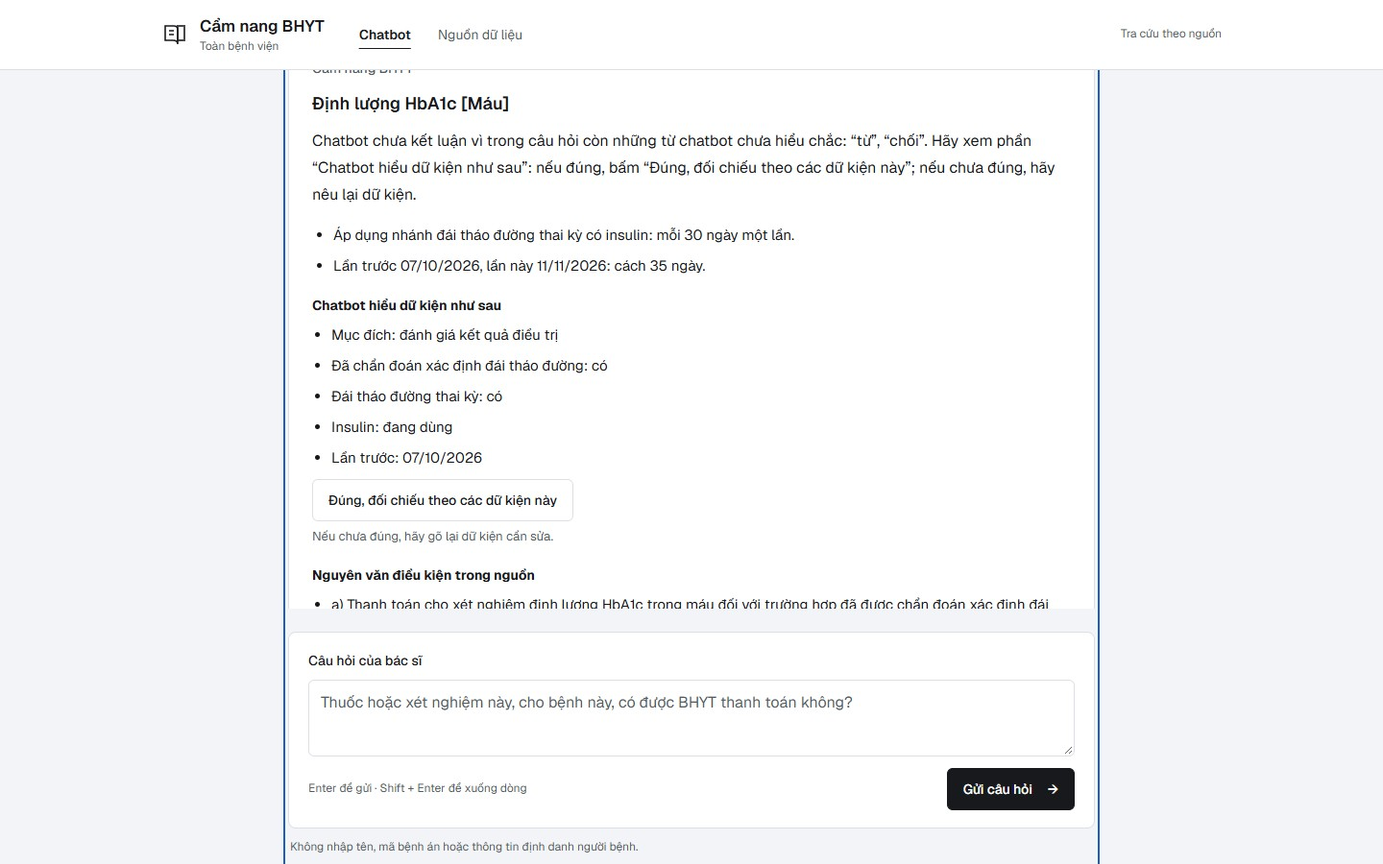
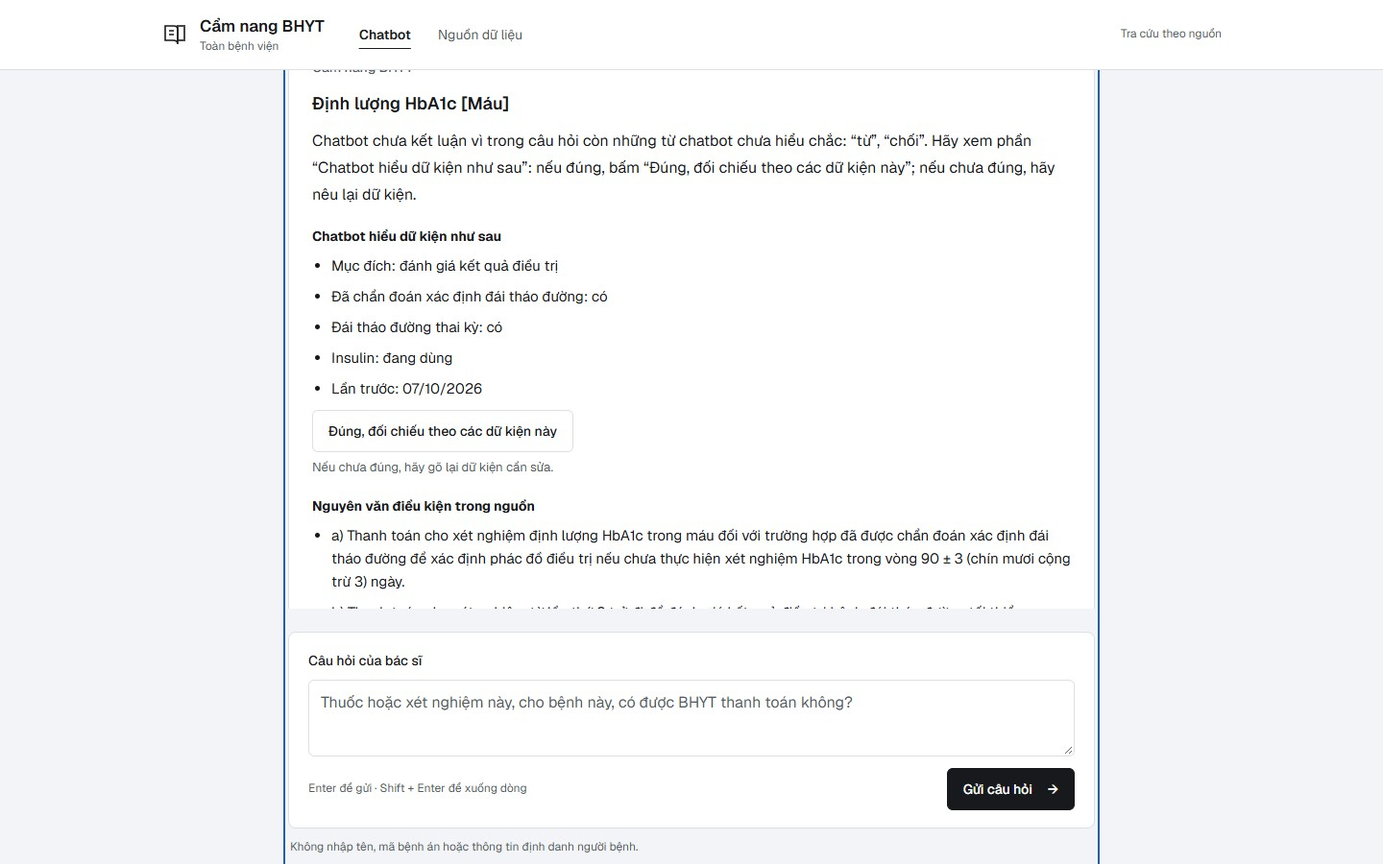
Sửa lỗi giữ dữ kiện ca cũ và bỏ qua bước xác nhận xét nghiệm

Changed region(s): [[0.2188, 0.2489, 0.7812, 0.7156]]

diff --git a/lab_lookup.py b/lab_lookup.py
@@ -79,6 +79,8 @@ def governed(clause, start, end, fillers, hedge=HEDGE, stoppable=False):
     m = re.search(hedge, ' '.join(before))
     if m:
         return 'unknown', m.group(0)
+    if stoppable and re.match(r'(?:\w+ ){0,3}(?:nam truoc|nam ngoai|thang truoc|tuan truoc|truoc day|truoc kia|luc truoc|hoi truoc|dot truoc|thai ky truoc|lan mang thai truoc|truoc khi|truoc do)\b', ' '.join(after)):
+        return 'unknown', 'past'                              # "dùng insulin trong năm trước": then, not now
     if re.fullmatch(r'(?:(?:thi|la|hay) )*(?:khong|chua)(?: (?:a|nhi|vay|nua))?', ' '.join(after)):
         return 'unknown', 'question'                          # "… dùng insulin không?"
     neg = [i for i, w in enumerate(before) if w in NEGATORS]
@@ -115,26 +117,44 @@ def verdict(found):
 # other word ("từ chối", "mẹ", "hủy", "hội chẩn" …) means the reading is shown and confirmed
 # first. Kept with diacritics, so that "hội" (hội chẩn) is not "hỏi".
 ACCOUNTED = set("""
-xét nghiệm xn định lượng dịch vụ chỉ định làm lại muốn tôi cần cho bệnh nhân bn người trường hợp ca này hôm nay ngày mai hiện tại đang đã được có không
-bhyt bảo hiểm y tế quỹ thanh toán chi trả điều kiện gì thế nào là thì và với để nhằm trong của ở lúc khi sau trước lần kia đó ạ nhé xin hỏi bác sĩ cả hai đều
-thuốc mới vừa rồi nữa thêm hay hoặc về việc một các những bị mắc nên cũng vậy sao còn nếu vì do mà nhưng chứ loại
+xét nghiệm xn định lượng dịch vụ chỉ định làm lại muốn tôi cần cho bệnh nhân bn người trường hợp ca này hiện tại đang đã được có không
+bhyt bảo hiểm y tế quỹ thanh toán chi trả điều kiện gì thế nào là thì và với để nhằm trong của ở ạ nhé xin hỏi bác sĩ cả hai đều
+thuốc mới vừa rồi nữa thêm về việc một các những bị mắc nên cũng vậy sao còn vì do mà nhưng chứ loại đến tới
 đái tháo đường đtđ tiểu thai kỳ insulin dùng sử dụng tiêm trị bằng theo dõi đánh giá kết quả đáp ứng hiệu kiểm soát huyết xác chọn lập chỉnh thay đổi phác đồ
-tầm sàng lọc chẩn đoán ban đầu đột biến gen gene tìm phát hiện tiên từng thực đo chưa chẳng ko ngừng ngưng dừng hết thôi bỏ trừ phải rõ biết chắc nhớ dự kiến
+tầm sàng lọc chẩn đoán ban đầu đột biến gen gene tìm phát hiện thực đo chưa chẳng ko ngừng ngưng dừng hết thôi bỏ trừ phải rõ biết chắc nhớ dự kiến
 thể sẽ sắp cân nhắc lẽ chờ thấy ghi đây nghi ngờ nguy cơ tiền mục đích type typ tuýp týp tuyp giai đoạn tái tiến triển
 ung thư phổi tế bào nhỏ nsclc sclc utp vú dạ dày đại trực tràng tuyến giáp cổ tử cung vòm mũi họng thanh quản hạ khoang miệng xoang mặt âm hộ dương vật da
-cách tuần tháng năm khoảng gần nhất cũ
 """.split())
 ACCOUNTED_PLAIN = {norm(w) for w in ACCOUNTED}
+# Time words are accounted for only as part of one of these expressions ("lần trước cách 35
+# ngày", "hôm nay", "ngày 01/08/2026"). Left on their own they qualify a fact — "dùng insulin
+# trong năm trước" — and the reading must be confirmed. "hoặc", "hay", "nếu", "khi", "sau",
+# "trước" are never accounted for: they make a statement conditional or a choice.
+TIME_EXPRESSIONS = re.compile(
+    r'\blan truoc(?: (?:lam|thuc hien|xet nghiem|do|la|vao|luc))*(?: ngay)?(?= zzdate| cach|$)|\blan (?:truoc|nay)\b|\blan dau(?: tien)?\b|\blan thu (?:\d+|hai|ba|tu)\b'
+    r'|\b(?:lan )?gan nhat\b|\bhom nay\b|\bngay mai\b|\bhien nay\b|\bnay\b|\b(?:ngay )?zzdate\b|\btruoc (?:day|kia)\b|\bchua tung\b|\blan nao\b'
+    r'|\b(?:cach(?: day)? )?(?:(?:khoang|gan|hon|chua den|chua toi|khong qua|it nhat|toi da|duoi|tren) )?\d+ (?:ngay|tuan|thang)(?: truoc| roi)?\b')
 
 
 def unread_words(message, aliases=()):
     """Words of the question that nothing in this module accounts for, as typed."""
     text = unicodedata.normalize('NFC', str(message).lower())
-    text = re.sub(r'\d{1,4}[/.-]\d{1,2}[/.-]\d{1,4}', ' ', text)
+    text = re.sub(r'\d{1,4}[/.-]\d{1,2}[/.-]\d{1,4}', ' zzdate ', text)
+    tokens = re.findall(r'[^\W_]+', text)
+    plain, starts, at = [], [], 0
+    for w in tokens:
+        n = norm(w) or w
+        starts.append(at); plain.append(n); at += len(n) + 1
+    joined = ' '.join(plain)
+    used = [False] * len(tokens)
+    for m in TIME_EXPRESSIONS.finditer(joined):
+        for i, a in enumerate(starts):
+            if m.start() <= a < m.end():
+                used[i] = True
     known = {w for a in aliases for w in a.split()}
     out = []
-    for w in re.findall(r'[^\W_]+', text):
-        if w.isdigit() or len(w) == 1 or re.fullmatch(r'[ivx]+', w) or norm(w) in known:
+    for w, n, consumed in zip(tokens, plain, used):
+        if consumed or w.isdigit() or len(w) == 1 or re.fullmatch(r'[ivx]+', w) or n in known or w == 'zzdate':
             continue
         if w in ACCOUNTED or (w.isascii() and w in ACCOUNTED_PLAIN):
             continue
@@ -142,6 +162,7 @@ def unread_words(message, aliases=()):
     return list(dict.fromkeys(out))
 
 
+NEW_CASE = r'\b(?:(?:benh nhan|nguoi benh|bn|ca|truong hop|nguoi) (?:khac|thu (?:hai|ba|tu|\d+)|tiep theo|ke tiep)|(?:ca|truong hop) moi|mot (?:benh nhan|ca|truong hop|nguoi) (?:khac|moi))\b'
 CONFIRM_WORDS = r'^(?:dung|dung roi|dung vay|xac nhan|chinh xac|ok|dong y)\b'
 
 F_USE = {'den', 'toi', 'co', 'con', 'can', 'phai', 'duoc', 'chi', 'dinh', 'dung', 'su', 'tiem', 'dieu', 'tri', 'bang', 'voi', 'thuoc', 'them', 'nua', 'tung', 'dang'}
@@ -386,7 +407,7 @@ class LabLookup:
         day = lambda iso: '/'.join(reversed(iso.split('-')))
         out = []
         if row.get('rule') == 'hba1c':
-            out.append('Mục đích: ' + {'regimen': 'xác định phác đồ điều trị', 'monitoring': 'đánh giá kết quả điều trị', 'screening': 'sàng lọc/chẩn đoán ban đầu'}.get(f.get('purpose'), 'chưa nêu'))
+            out.append('Mục đích: ' + {'regimen': 'xác định phác đồ điều trị', 'monitoring': 'đánh giá kết quả điều trị', 'screening': 'sàng lọc/chẩn đoán ban đầu', 'ambiguous': 'chưa rõ (câu hỏi nêu hơn một mục đích)'}.get(f.get('purpose'), 'chưa nêu'))
             out.append('Đã chẩn đoán xác định đái tháo đường: ' + {True: 'có', False: 'chưa'}.get(f.get('diabetes'), 'chưa nêu'))
             if 'gestational' in f:
                 out.append('Đái tháo đường thai kỳ: ' + {True: 'có', False: 'không'}.get(f['gestational'], 'chưa rõ'))
@@ -440,6 +461,7 @@ class LabLookup:
             row = self.services[sid]
             prev = state.get('lab', {}) if single else {}
             confirmed = bool(route.get('confirmed'))
+            self._same_case = False
             if confirmed:      # the user confirmed the reading shown last turn: nothing is read again
                 facts, case, errors = dict(prev.get('facts', {})), bool(prev.get('case')), []
             else:
@@ -450,17 +472,26 @@ class LabLookup:
             a = self.evaluate(sid, facts, case, errors, today)
             if row.get('rule') and facts:
                 a['reading'] = self.reading(row, facts)
-            if a['status'] in ('source_conditions_match', 'source_condition_not_met') and row.get('rule'):
-                # A conclusion straight from free text only when every word was accounted for and
-                # nothing voices doubt. Otherwise the reading is shown and confirmed with one click.
-                unread = [] if confirmed else unread_words(message, [alias for alias, i, _ in self.alias_index if i == sid])
-                doubt = None if confirmed else re.search(DOUBT, ' ; '.join(clause_list(message)))
-                if unread or doubt:
-                    why = ('còn những từ chatbot chưa hiểu chắc: ' + ', '.join('“' + w + '”' for w in unread[:8])) if unread else 'có phần chưa chắc chắn (“' + doubt.group(0).replace('loaitru', 'loại trừ') + '”)'
-                    a = {**a, 'status': 'needs_confirmation', 'pending': 'confirm', 'highlight': [], 'unread': unread,
+            # Words the chatbot could not account for, and voiced doubt, stay with the case over
+            # the following turns: a later "lần trước cách 35 ngày" cannot slip past them. Only
+            # an explicit confirmation of the reading clears them.
+            unread, doubt = [], None
+            if row.get('rule') and not confirmed:
+                carried = prev if self._same_case else {}
+                unread = list(dict.fromkeys(list(carried.get('unread', [])) + unread_words(message, [norm(x) for x in row.get('aliases', []) + [row['name']]])))
+                found = re.search(DOUBT, ' ; '.join(clause_list(message)))
+                doubt = found.group(0).replace('loaitru', 'loại trừ') if found else carried.get('doubt')
+            if unread or doubt:
+                why = ('còn những từ chatbot chưa hiểu chắc: ' + ', '.join('“' + w + '”' for w in unread[:8])) if unread else 'có phần chưa chắc chắn (“' + doubt + '”)'
+                # Nothing that reads like a conclusion is shown while the reading is unconfirmed.
+                a = {**a, 'reasons': [], 'highlight': []}
+                if a['status'] in ('source_conditions_match', 'source_condition_not_met'):
+                    a = {**a, 'status': 'needs_confirmation', 'pending': 'confirm', 'unread': unread,
                          'conclusion': 'Chatbot chưa kết luận vì trong câu hỏi ' + why + '. Hãy xem phần “Chatbot hiểu dữ kiện như sau”: nếu đúng, bấm “Đúng, đối chiếu theo các dữ kiện này”; nếu chưa đúng, hãy nêu lại dữ kiện.'}
-                elif confirmed:
-                    a = {**a, 'conclusion': 'Theo các dữ kiện bạn vừa xác nhận: ' + a['conclusion'][0].lower() + a['conclusion'][1:]}
+                else:
+                    a = {**a, 'unread': unread, 'unconfirmed_note': 'Trong câu hỏi ' + why + '. Chatbot sẽ chờ bạn xác nhận cách hiểu dữ kiện trước khi kết luận.'}
+            elif confirmed and a['status'] in ('source_conditions_match', 'source_condition_not_met'):
+                a = {**a, 'conclusion': 'Theo các dữ kiện bạn vừa xác nhận: ' + a['conclusion'][0].lower() + a['conclusion'][1:]}
             notes = []
             if sid in route.get('loose', []) and row.get('name_note'):
                 notes.append(row['name_note'])
@@ -468,6 +499,8 @@ class LabLookup:
                 notes.append('Nguyên văn dòng này được chép từ ảnh trang của bản hợp nhất 17/VBHN-BYT (bản scan, Đỗ Quốc An đọc), chưa được thẩm định; hãy đối chiếu ảnh trang trước khi dùng.')
             if row.get('source_note'):
                 notes.append(row['source_note'])
+            if a.get('unconfirmed_note'):
+                notes.insert(0, a.pop('unconfirmed_note'))
             base['lab_results'].append({'id': sid, 'name': row['name'], **a, 'conditions': row['conditions'],
                                         'rate': row.get('rate') or [], 'rate_mode': row.get('rate_mode'), 'notes': notes,
                                         'transcription': row.get('transcription', 'text_layer'), 'automatic': bool(row.get('rule')),
@@ -475,7 +508,8 @@ class LabLookup:
                                         'scope': 'Đối chiếu điều kiện riêng của dịch vụ theo nguồn; chưa xác nhận mức hưởng cá nhân, giá hay phạm vi hợp đồng của bệnh viện.'})
             base['citations'].append(self.citation(row))
             if single:
-                base['state'] = {'lab': {'id': sid, 'facts': facts, 'case': case, 'pending': a.get('pending'), 'date': today.isoformat()}}
+                base['state'] = {'lab': {'id': sid, 'facts': facts, 'case': case, 'pending': a.get('pending'), 'date': today.isoformat(),
+                                         'unread': unread, 'doubt': doubt}}
         statuses = [r['status'] for r in base['lab_results']]
         base['status'] = 'needs_info' if 'needs_info' in statuses or 'needs_confirmation' in statuses else 'answered'
         base['answer'] = '\n\n'.join(r['name'] + ': ' + r['conclusion'] for r in base['lab_results'])
@@ -515,7 +549,8 @@ class LabLookup:
         row = self.services[sid]
         named = any(sid == i for i in self.match_services(q, True)[0])
         continuation = not named or has(q, r'^(?:con|vay|neu|the|lan truoc|lan nay)\b')
-        same = prev.get('id') == sid and continuation and not has(q, r'\b(?:ca moi|truong hop khac|benh nhan khac)\b')
+        same = prev.get('id') == sid and continuation and not has(q, NEW_CASE)
+        self._same_case = same
         f = dict(prev.get('facts', {})) if same else {}
         errors = []
         case = bool(prev.get('case')) if same else False
@@ -602,10 +637,14 @@ class LabLookup:
             'monitoring': r'theo doi|danh gia (?:ket qua |dap ung |hieu qua )?dieu tri|kiem soat duong huyet'}
         # A purpose stated plainly once counts ("không theo dõi được tại nhà, đánh giá kết quả điều trị").
         stated = {k: {x[0] for x in mentions(clauses, pattern, F_PURPOSE)} for k, pattern in kinds.items()}
-        for kind in ('screening', 'regimen', 'monitoring'):       # later wins, as before
-            if 'yes' in stated[kind]:
-                f['purpose'] = kind
-        if f.get('purpose') and stated[f['purpose']] and 'yes' not in stated[f['purpose']]:
+        named = [kind for kind in ('screening', 'regimen', 'monitoring') if 'yes' in stated[kind]]
+        if len(named) == 1:
+            f['purpose'] = named[0]
+        elif named:
+            f['purpose'] = 'ambiguous'                             # "để sàng lọc hoặc theo dõi": two purposes, ask which
+            if 'screening' in named:
+                f.pop('diabetes', None)                            # "sàng lọc … đái tháo đường" says nothing sure about the diagnosis
+        if f.get('purpose') in stated and stated[f['purpose']] and 'yes' not in stated[f['purpose']]:
             f.pop('purpose')
         if has(q, r'\b(?:khong|chua) (?:ro|biet|xac dinh) muc dich\b'):
             f.pop('purpose', None)
@@ -756,6 +795,8 @@ class LabLookup:
             return result('conditions_only', 'Có quy định thanh toán HbA1c theo mục đích xét nghiệm và khoảng cách giữa các lần. Xem đủ ba nhánh điều kiện dưới đây.')
         if errors or f.get('date_error'):
             return result('needs_info', f.get('date_error') or ' '.join(errors), 'last_date')
+        if f.get('purpose') == 'ambiguous':
+            return result('needs_info', 'Câu hỏi nêu hơn một mục đích. Lần này để xác định phác đồ điều trị, đánh giá kết quả điều trị, hay sàng lọc/chẩn đoán ban đầu?', 'purpose')
         planned = dt.date.fromisoformat(f.get('planned_date', today.isoformat()))
         if planned < dt.date.fromisoformat(self.source['effective_from']) or planned > today:
             return result('needs_review', 'Ngày xét nghiệm nằm trước ngày áp dụng bộ quy tắc hoặc trong tương lai. Cần kiểm tra văn bản áp dụng ở thời điểm đó; chưa đối chiếu tự động.')

diff --git a/tests/test_lab_review8.py b/tests/test_lab_review8.py
@@ -1,0 +1,153 @@
+"""Third external review (2026-11-11): four confirmed defects.
+
+1. Facts confirmed for one patient were kept for "bệnh nhân khác".
+2. An unconfirmed reading could be skipped by answering the next question.
+3. Known words do not make a sentence understood ("dùng insulin trong năm trước").
+4. Reasons such as "Áp dụng nhánh …" were shown while the reading was still unconfirmed.
+"""
+import datetime as dt
+import sys
+import unittest
+from pathlib import Path
+from unittest.mock import patch
+
+sys.path.insert(0, str(Path(__file__).resolve().parents[1]))
+from engine import Corpus
+from lab_lookup import unread_words
+
+TODAY = dt.date(2026, 11, 10)
+CONFIRM = 'Đúng, đối chiếu theo các dữ kiện này'
+DECIDED = ('source_conditions_match', 'source_condition_not_met')
+REFUSED = 'HbA1c hôm nay theo dõi đái tháo đường thai kỳ, từ chối insulin'
+
+
+class Base(unittest.TestCase):
+    @classmethod
+    def setUpClass(cls):
+        cls.c = Corpus()
+
+    def ask(self, q, prev=None, confirm=None):
+        with patch('lab_lookup.local_today', return_value=TODAY):
+            return self.c.converse(q, prev['state'] if prev else None, None, confirm)
+
+    def lab(self, q, prev=None):
+        return self.ask(q, prev)['lab_results'][0]
+
+    def her2(self, r):
+        return r['results'][0]['question_answer']['requirements'][0]
+
+
+class AnotherPatient(Base):
+    def confirmed_her2(self):
+        a = self.ask('Trastuzumab ung thư vú')
+        item = a['results'][0]['question_answer']['confirm'][0]
+        b = self.ask(item['label'], a, {'key': item['key'], 'value': 'met'})
+        self.assertEqual((self.her2(b)['status'], self.her2(b)['source']), ('met', 'confirmed'))
+        return b
+
+    def test_confirmed_fact_is_not_carried_to_another_patient(self):
+        b = self.confirmed_her2()
+        for q in ('Trastuzumab cho bệnh nhân khác ung thư vú có BHYT không?', 'Ca mới: Trastuzumab ung thư vú', 'Một bệnh nhân khác, Trastuzumab ung thư vú',
+                  'Trường hợp khác: Trastuzumab ung thư vú', 'Bệnh nhân thứ hai dùng Trastuzumab ung thư vú'):
+            r = self.ask(q, b)
+            self.assertEqual(self.her2(r)['status'], 'not_stated', q)
+            self.assertNotIn('all_requirements_met', r['results'][0]['question_answer'], q)
+            self.assertEqual(r['state'].get('facts'), {}, q)
+
+    def test_same_patient_keeps_the_fact(self):
+        b = self.confirmed_her2()
+        self.assertEqual(self.her2(self.ask('Trastuzumab ung thư vú thì tỷ lệ bao nhiêu?', b))['status'], 'met')
+
+    def test_text_of_the_previous_patient_is_dropped_too(self):
+        a = self.ask('Trastuzumab ung thư vú HER2 dương tính')
+        self.assertEqual(self.her2(a)['status'], 'met')
+        r = self.ask('Còn bệnh nhân khác thì sao?', a)
+        self.assertEqual([x['ingredient'] for x in r['results']], ['Trastuzumab'])
+        self.assertNotIn('all_requirements_met', r['results'][0]['question_answer'])
+
+    def test_lab_facts_of_the_previous_patient_are_dropped(self):
+        a = self.ask('HbA1c hôm nay theo dõi đái tháo đường, lần trước cách 120 ngày')
+        self.assertEqual(a['lab_results'][0]['status'], 'source_conditions_match')
+        r = self.lab('Bệnh nhân khác, HbA1c hôm nay theo dõi đái tháo đường', a)
+        self.assertEqual(r['pending'], 'last_date')
+        self.assertNotIn('last_date', r['facts'])
+
+
+class UnconfirmedReadingStays(Base):
+    def test_follow_up_cannot_skip_the_confirmation(self):
+        a = self.ask(REFUSED)
+        first = a['lab_results'][0]
+        self.assertEqual((first['status'], first['pending']), ('needs_info', 'last_date'))
+        self.assertEqual(a['state']['lab']['unread'], ['từ', 'chối'])
+        self.assertTrue(any('chưa hiểu chắc' in n for n in first['notes']))
+        b = self.ask('Lần trước cách 35 ngày', a)
+        r = b['lab_results'][0]
+        self.assertEqual((r['status'], r['pending']), ('needs_confirmation', 'confirm'))
+        self.assertIn('“từ”, “chối”', r['conclusion'])
+        self.assertEqual(self.lab(CONFIRM, b)['status'], 'source_conditions_match')
+
+    def test_button_shown_then_ignored(self):
+        a = self.ask(REFUSED + ', lần trước cách 35 ngày')
+        self.assertEqual(a['lab_results'][0]['status'], 'needs_confirmation')
+        b = self.ask('Lần trước cách 36 ngày', a)
+        self.assertEqual(b['lab_results'][0]['status'], 'needs_confirmation')
+        c = self.ask('Lần trước cách 40 ngày', b)
+        self.assertEqual(c['lab_results'][0]['status'], 'needs_confirmation')
+
+    def test_confirmation_clears_it_and_a_new_case_starts_clean(self):
+        a = self.ask(REFUSED + ', lần trước cách 35 ngày')
+        b = self.ask(CONFIRM, a)
+        self.assertEqual((b['state']['lab']['unread'], b['state']['lab']['doubt']), ([], None))
+        self.assertIn(self.lab('Lần trước cách 20 ngày', b)['status'], DECIDED)
+        r = self.lab('HbA1c hôm nay theo dõi đái tháo đường, lần trước cách 120 ngày', a)      # named again: a new case
+        self.assertEqual(r['status'], 'source_conditions_match')
+
+    def test_doubt_voiced_earlier_stays_too(self):
+        a = self.ask('HbA1c hôm nay theo dõi đái tháo đường, hình như đã làm rồi')
+        b = self.lab('Lần trước cách 120 ngày', a)
+        self.assertEqual(b['status'], 'needs_confirmation')
+
+
+class NothingReadsLikeAConclusionWhileWaiting(Base):
+    def test_reasons_and_marks_are_held_back(self):
+        for q, prev in ((REFUSED + ', lần trước cách 35 ngày', None), (REFUSED, None)):
+            r = self.lab(q, prev)
+            self.assertEqual(r['reasons'], [], q)
+            self.assertEqual(r['highlight'], [], q)
+            self.assertNotIn('Áp dụng nhánh', r['conclusion'] + ' '.join(r['notes']), q)
+        a = self.ask(REFUSED + ', lần trước cách 35 ngày')
+        r = self.lab(CONFIRM, a)
+        self.assertTrue(any('Áp dụng nhánh' in x for x in r['reasons']))        # shown once confirmed
+        self.assertEqual(r['highlight'], [2])
+
+
+class KnownWordsWrongReading(Base):
+    def test_time_words_count_only_inside_a_date_expression(self):
+        self.assertEqual(unread_words('lần trước cách 35 ngày'), [])
+        self.assertEqual(unread_words('lần trước làm ngày 01/08/2026, hôm nay'), [])
+        self.assertEqual(unread_words('dùng insulin trong năm trước'), ['năm', 'trước'])
+        self.assertEqual(unread_words('để sàng lọc hoặc theo dõi'), ['hoặc'])
+        self.assertEqual(unread_words('nếu dùng insulin sau sinh'), ['nếu', 'sau', 'sinh'])
+        self.assertEqual(unread_words('chưa từng làm'), [])
+
+    def test_past_use_is_not_present_use(self):
+        base = 'HbA1c hôm nay theo dõi đái tháo đường thai kỳ, {}, lần trước cách 35 ngày'
+        for text in ('dùng insulin trong năm trước', 'dùng insulin năm ngoái', 'insulin tháng trước', 'dùng insulin trước khi mang thai', 'dùng insulin ở thai kỳ trước'):
+            r = self.lab(base.format(text))
+            self.assertNotIn(r['status'], DECIDED, text)
+            self.assertNotIn('Insulin: đang dùng', r.get('reading', []), text)
+
+    def test_two_purposes_are_asked(self):
+        for text in ('để sàng lọc hoặc theo dõi đái tháo đường', 'để theo dõi hay xác định phác đồ cho bệnh nhân đái tháo đường',
+                     'vừa đánh giá kết quả điều trị vừa điều chỉnh phác đồ đái tháo đường'):
+            r = self.lab(f'HbA1c hôm nay {text}, lần trước cách 100 ngày')
+            self.assertEqual((r['facts']['purpose'], r['status'], r['pending']), ('ambiguous', 'needs_info', 'purpose'), text)
+        a = self.ask('HbA1c hôm nay để theo dõi hay xác định phác đồ cho bệnh nhân đái tháo đường, lần trước cách 100 ngày')
+        b = self.ask('Để đánh giá kết quả điều trị', a)
+        self.assertEqual(b['lab_results'][0]['facts']['purpose'], 'monitoring')
+        self.assertEqual(b['lab_results'][0]['status'], 'needs_confirmation')      # "hay" from the first turn is still unconfirmed
+        self.assertEqual(self.lab(CONFIRM, b)['status'], 'source_conditions_match')
+
+
+if __name__ == '__main__':
+    unittest.main()

diff --git a/tests/test_lab_review7.py b/tests/test_lab_review7.py
@@ -38,6 +38,13 @@ class Base(unittest.TestCase):
     def lab(self, q, prev=None):
         return self.ask(q, prev)['lab_results'][0]
 
+    def settle(self, q, prev=None):
+        """The conclusion after the one-click confirmation that an unconfirmed reading needs."""
+        r = self.ask(q, prev)
+        if r['lab_results'][0]['status'] == 'needs_confirmation':
+            r = self.ask('Đúng, đối chiếu theo các dữ kiện này', r)
+        return r['lab_results'][0]
+
 
 class Findings(Base):
     def test_1_uncertain_purpose_is_asked(self):
@@ -58,8 +65,10 @@ class Findings(Base):
         self.assertEqual((r['facts']['gestational'], r['status'], r['pending']), ('unknown', 'needs_info', 'gestational'))
         self.assertIs(r['facts']['diabetes'], True)
         a = self.ask('HbA1c hôm nay theo dõi đái tháo đường, chưa xác định có đái tháo đường thai kỳ, đang dùng insulin, lần trước cách 35 ngày')
-        self.assertEqual(self.lab('Có', a)['status'], 'source_conditions_match')          # 35 days, 30-day branch
-        self.assertEqual(self.lab('Không', a)['status'], 'source_condition_not_met')      # 35 days, ordinary branch
+        b = self.lab('Có', a)
+        self.assertEqual((b['facts']['gestational'], b['status']), (True, 'needs_confirmation'))   # the doubt voiced earlier still needs a click
+        self.assertEqual(self.settle('Có', a)['status'], 'source_conditions_match')       # 35 days, 30-day branch
+        self.assertEqual(self.settle('Không', a)['status'], 'source_condition_not_met')   # 35 days, ordinary branch
         for text in ('có thể là đái tháo đường thai kỳ', 'nghi đái tháo đường thai kỳ', 'trước đây đái tháo đường thai kỳ'):
             r = self.lab(f'HbA1c hôm nay theo dõi đái tháo đường, {text}, đang dùng insulin, lần trước cách 35 ngày')
             self.assertNotIn(r['status'], DECIDED, text)
@@ -113,7 +122,7 @@ class Confirmation(Base):
     def test_unread_words(self):
         self.assertEqual(unread_words('HbA1c hôm nay để đánh giá kết quả điều trị đái tháo đường, lần trước làm ngày 01/08/2026, BHYT có thanh toán không?', ['hba1c']), [])
         self.assertEqual(unread_words('theo dõi đái tháo đường thai kỳ, từ chối insulin'), ['từ', 'chối'])
-        self.assertEqual(unread_words('ung thư phổi (chẩn đoán tuyến trước, chưa hội chẩn lại)'), ['hội'])     # "hội" is not "hỏi"
+        self.assertEqual(unread_words('ung thư phổi (chẩn đoán tuyến trước, chưa hội chẩn lại)'), ['trước', 'hội'])     # "hội" is not "hỏi"
         self.assertEqual(unread_words('me benh nhan bi dai thao duong'), ['me'])                                # typed without diacritics
         self.assertEqual(unread_words('NSCLC giai đoạn IV'), [])
 
@@ -126,9 +135,12 @@ class Confirmation(Base):
         self.assertIn('“từ”, “chối”', r['conclusion'])
         self.assertIn('Insulin: đang dùng', r['reading'])            # the misreading is in plain sight
         self.assertEqual(r['highlight'], [])
-        b = self.lab('Không, bệnh nhân không dùng insulin', a)       # corrected instead of confirmed
-        self.assertIs(b['facts']['insulin'], False)
-        self.assertEqual(b['status'], 'source_condition_not_met')
+        b = self.ask('Không, bệnh nhân không dùng insulin', a)       # corrected instead of confirmed
+        r = b['lab_results'][0]
+        self.assertIs(r['facts']['insulin'], False)
+        self.assertEqual(r['status'], 'needs_confirmation')          # the corrected reading is shown, then confirmed
+        self.assertIn('Insulin: không dùng', r['reading'])
+        self.assertEqual(self.lab(CONFIRM, b)['status'], 'source_condition_not_met')
 
     def test_confirming_gives_the_conclusion_without_reading_again(self):
         a = self.ask(E.format('ung thư phổi không tế bào nhỏ tái phát đang điều trị bước 2'))

diff --git a/engine.py b/engine.py
@@ -598,6 +598,12 @@ class Corpus:
         """One chat turn: verify the signed state, block identifiers on every path,
         answer, then sign the new state."""
         trusted=self.verify_state(state)
+        from lab_lookup import NEW_CASE
+        if isinstance(message,str) and confirm is None and re.search(NEW_CASE,normalize(message)):
+            # "… cho bệnh nhân khác": the medicine or test under discussion stays, but nothing said
+            # or confirmed about the previous patient (facts, turns, dates) is carried over.
+            lab=trusted.get('lab') if isinstance(trusted.get('lab'),dict) else {}
+            trusted={k:v for k,v in (('selected_ids',trusted.get('selected_ids')),('lab',{'id':lab['id']} if lab.get('id') else None)) if v}
         if isinstance(message,str) and private_input(message):
             result=self.chat(message,{},as_of,allow_ai=False)          # private_input reply, nothing stored
         elif as_of is not None and as_of!=SNAPSHOT:
